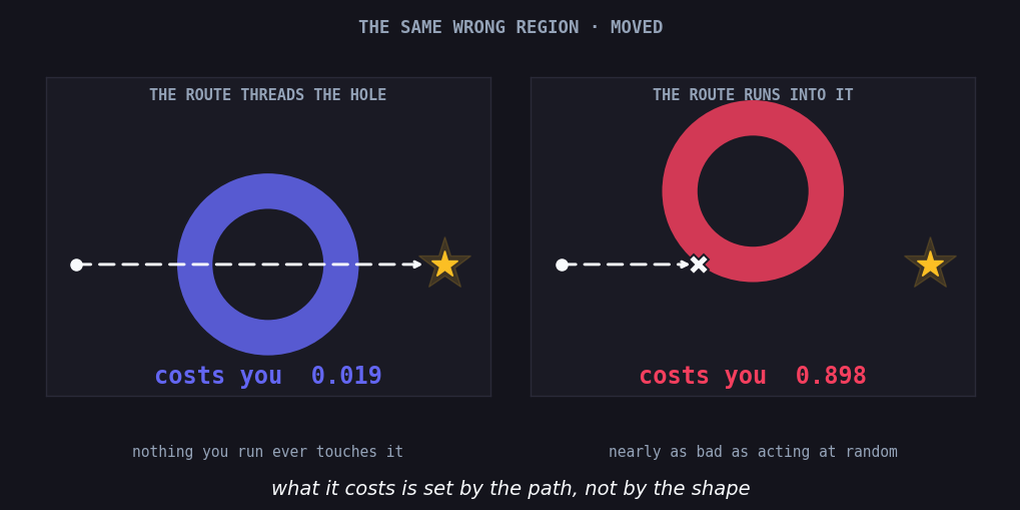
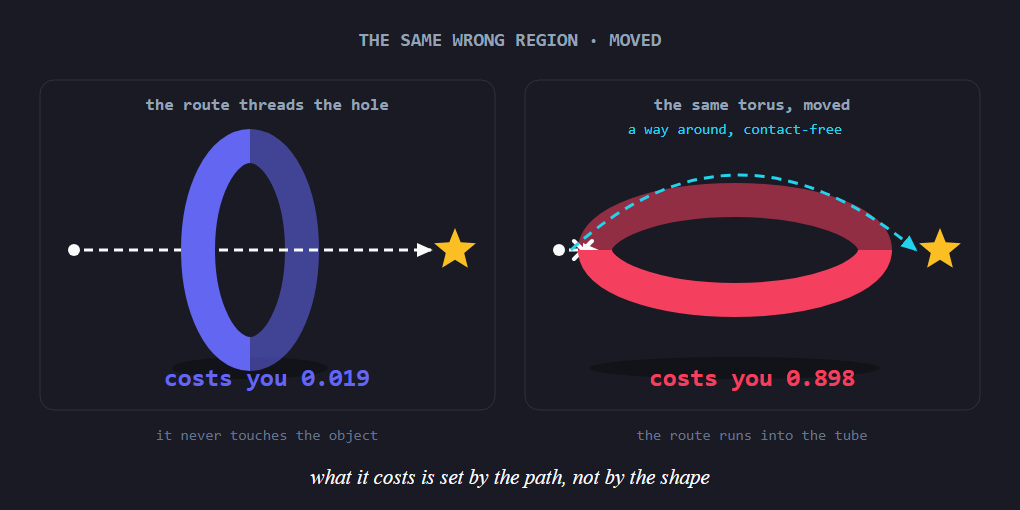
The 3D torus, in the body and as the hero
The go-around section gets the same 3D figure as the sibling article, with
a plain-language caption. And the hero is rebuilt from it: the first one
drew the doughnut flat, which undersells the result — the object is a
solid torus in three dimensions and the entire point of that experiment is
that you can go around it. It is now drawn standing with the route through
its hole against the same object lying flat with the route running into
the tube.

That also collapses two pipelines into one: the hero is now emitted by the
same SVG generator as the in-body figures and rasterised with headless
Chrome (command recorded in image-prompts.md), so the geometry has a single
source of truth. The old matplotlib hero source is deleted rather than left
to rot.

Claude-Session: https://claude.ai/code/session_01X6tRobDH5GAj5t5XTuUfb8

diff --git a/docs/marketing/figure-sources/ring_figures.py b/docs/marketing/figure-sources/ring_figures.py
@@ -348,9 +348,12 @@ def preview(outdir: pathlib.Path) -> None:
     outdir.mkdir(parents=True, exist_ok=True)
     for name, build in FIGURES.items():
         body, _ = build()
+        vb = re.search(r'viewBox="0 0 (\d+) (\d+)"', body)
+        w = int(vb.group(1)) if vb else 600
+        pad = 0 if name.startswith("hero") else 10
         html = (f'<!doctype html><meta charset="utf-8">'
                 f'<body style="margin:0;background:{PANEL}">'
-                f'<div style="width:620px;padding:10px">{body}</div></body>')
+                f'<div style="width:{w}px;padding:{pad}px">{body}</div></body>')
         (outdir / f"{name}.html").write_text(html, encoding="utf-8")
         (outdir / f"{name}.svg").write_text(
             body.replace("<svg ", f'<svg style="background:{PANEL}" ', 1),
@@ -374,6 +377,154 @@ def main() -> int:
         p = pathlib.Path(f)
         print(f"{f}: {write_into(p)} figure(s) patched")
     return 0
+
+
+# --- the 3D control (TubeField3D) ------------------------------------------
+def _ellipse_path(cx, cy, rx, ry) -> str:
+    return (f"M{cx - rx:.1f},{cy:.1f} A{rx:.1f},{ry:.1f} 0 1,0 {cx + rx:.1f},{cy:.1f} "
+            f"A{rx:.1f},{ry:.1f} 0 1,0 {cx - rx:.1f},{cy:.1f} Z")
+
+
+def hoop(cx, cy, rx, ry, tube, colour, uid, *, split="x"):
+    """A torus drawn as a stroked ellipse, split into far/near halves so a path
+    can be made to pass visibly through it. `split="x"` stands the ring up
+    (hole axis horizontal, i.e. a hoop); `split="y"` lays it flat.
+
+    Returns (defs, far, near) — draw far, then whatever passes through, then near.
+    """
+    pad = 40
+    if split == "x":
+        far_rect = (cx, cy - ry - pad, rx + pad, 2 * (ry + pad))
+        near_rect = (cx - rx - pad, cy - ry - pad, rx + pad, 2 * (ry + pad))
+    else:
+        far_rect = (cx - rx - pad, cy - ry - pad, 2 * (rx + pad), ry + pad)
+        near_rect = (cx - rx - pad, cy, 2 * (rx + pad), ry + pad)
+    defs = (f'<defs>'
+            f'<clipPath id="{uid}-far"><rect x="{far_rect[0]:.1f}" y="{far_rect[1]:.1f}" '
+            f'width="{far_rect[2]:.1f}" height="{far_rect[3]:.1f}"/></clipPath>'
+            f'<clipPath id="{uid}-near"><rect x="{near_rect[0]:.1f}" y="{near_rect[1]:.1f}" '
+            f'width="{near_rect[2]:.1f}" height="{near_rect[3]:.1f}"/></clipPath>'
+            f'</defs>')
+    path = _ellipse_path(cx, cy, rx, ry)
+    far = (f'<path d="{path}" fill="none" stroke="{colour}" stroke-width="{tube}" '
+           f'stroke-opacity="0.55" clip-path="url(#{uid}-far)"/>')
+    near = (f'<path d="{path}" fill="none" stroke="{colour}" stroke-width="{tube}" '
+            f'clip-path="url(#{uid}-near)"/>')
+    return defs, far, near
+
+
+def _torus_panel(out, x0, cx, cy, *, standing, colour, uid, cost, tag, note,
+                 around=False):
+    out.append(frame(x0, 22, 285, 176))
+    out.append(text(x0 + 142, 15, tag, size=11.5, weight="bold", colour=MUTED))
+    if standing:
+        defs, far, near = hoop(cx, cy, 32, 62, 20, colour, uid, split="x")
+    else:
+        defs, far, near = hoop(cx, cy, 84, 30, 21, colour, uid, split="y")
+    # a faint contact shadow, to say "this is a solid object in space"
+    out.append(f'<ellipse cx="{cx:.1f}" cy="{cy + 68:.1f}" rx="{86 if not standing else 46}" '
+               f'ry="7" fill="#000" fill-opacity="0.30"/>')
+    out.append(defs)
+    out.append(far)
+    sx, sy = x0 + 24, cy
+    gx, gy = x0 + 258, cy
+    out.append(dot(sx, sy, r=3.4))
+    if standing:
+        out.append(arrow(sx + 6, sy, gx - 14, gy, mid=uid + "-mk"))
+    else:
+        out.append(arrow(sx + 6, sy, cx - 82, cy, mid=uid + "-mk"))
+        out.append(cross(cx - 92, cy, size=5.0))
+        if around:
+            out.append(f'<path d="M{sx + 8:.1f},{sy:.1f} Q{cx:.1f},{cy - 88:.1f} '
+                       f'{gx - 14:.1f},{gy:.1f}" fill="none" stroke="{CYAN}" '
+                       f'stroke-width="2" stroke-dasharray="6 4" '
+                       f'marker-end="url(#{uid}-mk2)"/>')
+            out.append(text(cx, cy - 68, "a way around, contact-free", size=9.5,
+                            colour=CYAN))
+    out.append(near)
+    out.append(star(gx, gy, 1, r=13, halo=False))
+    out.append(text(x0 + 142, 186, f"costs you  {cost}", size=15, colour=colour,
+                    weight="bold"))
+    out.append(text(x0 + 142, 214, note, size=9.5, colour=DIM))
+
+
+def fig_torus_3d() -> tuple[str, str]:
+    label = ("The same solid torus in three dimensions: with the route through its "
+             "hole it costs 0.019, and moved so the route runs into the tube it "
+             "costs 0.898 — while a contact-free path around it still exists")
+    out = [marker_def("t3-mk"), marker_def("t3b-mk"), marker_def("t3b-mk2", CYAN)]
+    _torus_panel(out, 10, 152, 104, standing=True, colour=SAFE, uid="t3",
+                 cost="0.019", tag="the route threads the hole",
+                 note="it never touches the object")
+    _torus_panel(out, 305, 447, 104, standing=False, colour=DANGER, uid="t3b",
+                 cost="0.898", tag="the same torus, moved",
+                 note="the route runs into the tube", around=True)
+    out.append(text(300, 238,
+                    "nothing here is sealed off  ·  same object, same contact rarity 0.0033",
+                    size=11, colour=INK))
+    return svg("\n".join(out), w=600, h=250, label=label), label
+
+
+FIGURES["torus-3d"] = fig_torus_3d
+
+# --- the explainer's hero (rendered to PNG with headless Chrome) ------------
+def fig_hero_bug() -> tuple[str, str]:
+    """1020x510 hero for "The Bug Nobody Can Reach".
+
+    Rasterise it after regenerating:
+
+        python ring_figures.py --preview out/
+        chrome --headless=new --hide-scrollbars           --screenshot=public/blog/the-bug-nobody-can-reach.png           --window-size=1020,510 file://.../out/hero-bug.html
+    """
+    label = ("The same solid torus in three dimensions, moved: the route threads its "
+             "hole and costs 0.019, or runs into the tube and costs 0.898")
+    out = [marker_def("h-mk"), marker_def("hb-mk"), marker_def("hb-mk2", CYAN)]
+    out.append(text(510, 46, "THE SAME WRONG REGION · MOVED", size=19,
+                    colour=MUTED, weight="bold"))
+    cfg = [
+        (40, 250, True, SAFE, "h", "0.019", "the route threads the hole",
+         "it never touches the object"),
+        (525, 735, False, DANGER, "hb", "0.898", "the same torus, moved",
+         "the route runs into the tube"),
+    ]
+    for x0, cx, standing, colour, uid, cost, tag, note in cfg:
+        cy = 250
+        out.append(f'<rect x="{x0}" y="80" width="455" height="330" rx="14" '
+                   f'fill="none" stroke="{EDGE}"/>')
+        out.append(text(x0 + 227, 110, tag, size=17, colour=MUTED, weight="bold"))
+        if standing:
+            defs, far, near = hoop(cx, cy, 52, 104, 34, colour, uid, split="x")
+        else:
+            defs, far, near = hoop(cx, cy, 140, 50, 34, colour, uid, split="y")
+        out.append(f'<ellipse cx="{cx}" cy="{cy + 118}" rx="{78 if standing else 145}" '
+                   f'ry="11" fill="#000" fill-opacity="0.30"/>')
+        out.append(defs)
+        out.append(far)
+        sx, gx = x0 + 34, x0 + 415
+        out.append(dot(sx, cy, r=6))
+        if standing:
+            out.append(arrow(sx + 10, cy, gx - 24, cy, mid=uid + "-mk", w=3,
+                             dash="9 6"))
+        else:
+            out.append(arrow(sx + 10, cy, cx - 138, cy, mid=uid + "-mk", w=3,
+                             dash="9 6"))
+            out.append(cross(cx - 152, cy, size=9, w=4))
+            out.append(f'<path d="M{sx + 12},{cy} Q{cx},{cy - 150} {gx - 24},{cy}" '
+                       f'fill="none" stroke="{CYAN}" stroke-width="3" '
+                       f'stroke-dasharray="10 7" marker-end="url(#hb-mk2)"/>')
+            out.append(text(cx, cy - 116, "a way around, contact-free", size=15,
+                            colour=CYAN))
+        out.append(near)
+        out.append(star(gx, cy, 1, r=22, halo=False))
+        out.append(text(x0 + 227, 386, f"costs you  {cost}", size=25, colour=colour,
+                        weight="bold"))
+        out.append(text(x0 + 227, 440, note, size=15, colour=DIM))
+    out.append(text(510, 484, "what it costs is set by the path, not by the shape",
+                    size=21, colour=INK, mono=False, italic=True))
+    return svg("\n".join(out), w=1020, h=510, label=label), label
+
+
+FIGURES["hero-bug"] = fig_hero_bug
 
 
 if __name__ == "__main__":

diff --git a/src/content/blog/en/the-bug-nobody-can-reach.md b/src/content/blog/en/the-bug-nobody-can-reach.md
@@ -127,6 +127,44 @@ That was the first objection I got, and it is the right one. In two dimensions a
 
 So the paper runs the case where going around is genuinely possible: a doughnut-shaped region floating in three-dimensional space, between the robot and its target. Nothing is sealed off — there is an explicit route that goes around it without touching it at all.
 
+<figure class="cwm-fig">
+<!-- fig:torus-3d -->
+<svg viewBox="0 0 600 250" role="img" aria-label="The same solid torus in three dimensions: with the route through its hole it costs 0.019, and moved so the route runs into the tube it costs 0.898 — while a contact-free path around it still exists">
+<defs><marker id="t3-mk" viewBox="0 0 10 10" refX="8" refY="5" markerWidth="6" markerHeight="6" orient="auto-start-reverse"><path d="M0,1 L9,5 L0,9 z" fill="#f8fafc"/></marker></defs>
+<defs><marker id="t3b-mk" viewBox="0 0 10 10" refX="8" refY="5" markerWidth="6" markerHeight="6" orient="auto-start-reverse"><path d="M0,1 L9,5 L0,9 z" fill="#f8fafc"/></marker></defs>
+<defs><marker id="t3b-mk2" viewBox="0 0 10 10" refX="8" refY="5" markerWidth="6" markerHeight="6" orient="auto-start-reverse"><path d="M0,1 L9,5 L0,9 z" fill="#22d3ee"/></marker></defs>
+<rect x="10" y="22" width="285" height="176" rx="8" fill="none" stroke="rgba(255,255,255,0.10)"/>
+<text x="152.0" y="15.0" font-size="11.5" fill="#94a3b8" text-anchor="middle" font-family="ui-monospace,'JetBrains Mono',monospace" font-weight="bold">the route threads the hole</text>
+<ellipse cx="152.0" cy="172.0" rx="46" ry="7" fill="#000" fill-opacity="0.30"/>
+<defs><clipPath id="t3-far"><rect x="152.0" y="2.0" width="72.0" height="204.0"/></clipPath><clipPath id="t3-near"><rect x="80.0" y="2.0" width="72.0" height="204.0"/></clipPath></defs>
+<path d="M120.0,104.0 A32.0,62.0 0 1,0 184.0,104.0 A32.0,62.0 0 1,0 120.0,104.0 Z" fill="none" stroke="#6366f1" stroke-width="20" stroke-opacity="0.55" clip-path="url(#t3-far)"/>
+<circle cx="34.0" cy="104.0" r="3.4" fill="#f8fafc"/>
+<line x1="40.0" y1="104.0" x2="254.0" y2="104.0" stroke="#f8fafc" stroke-width="2.0" stroke-dasharray="5 3" marker-end="url(#t3-mk)"/>
+<path d="M120.0,104.0 A32.0,62.0 0 1,0 184.0,104.0 A32.0,62.0 0 1,0 120.0,104.0 Z" fill="none" stroke="#6366f1" stroke-width="20" clip-path="url(#t3-near)"/>
+<polygon points="268.0,91.0 264.6,99.4 255.6,100.0 262.6,105.8 260.4,114.5 268.0,109.7 275.6,114.5 273.4,105.8 280.4,100.0 271.4,99.4" fill="#fbbf24"/>
+<text x="152.0" y="186.0" font-size="15" fill="#6366f1" text-anchor="middle" font-family="ui-monospace,'JetBrains Mono',monospace" font-weight="bold">costs you  0.019</text>
+<text x="152.0" y="214.0" font-size="9.5" fill="#64748b" text-anchor="middle" font-family="ui-monospace,'JetBrains Mono',monospace">it never touches the object</text>
+<rect x="305" y="22" width="285" height="176" rx="8" fill="none" stroke="rgba(255,255,255,0.10)"/>
+<text x="447.0" y="15.0" font-size="11.5" fill="#94a3b8" text-anchor="middle" font-family="ui-monospace,'JetBrains Mono',monospace" font-weight="bold">the same torus, moved</text>
+<ellipse cx="447.0" cy="172.0" rx="86" ry="7" fill="#000" fill-opacity="0.30"/>
+<defs><clipPath id="t3b-far"><rect x="323.0" y="34.0" width="248.0" height="70.0"/></clipPath><clipPath id="t3b-near"><rect x="323.0" y="104.0" width="248.0" height="70.0"/></clipPath></defs>
+<path d="M363.0,104.0 A84.0,30.0 0 1,0 531.0,104.0 A84.0,30.0 0 1,0 363.0,104.0 Z" fill="none" stroke="#f43f5e" stroke-width="21" stroke-opacity="0.55" clip-path="url(#t3b-far)"/>
+<circle cx="329.0" cy="104.0" r="3.4" fill="#f8fafc"/>
+<line x1="335.0" y1="104.0" x2="365.0" y2="104.0" stroke="#f8fafc" stroke-width="2.0" stroke-dasharray="5 3" marker-end="url(#t3b-mk)"/>
+<path d="M350.0,99.0 L360.0,109.0 M360.0,99.0 L350.0,109.0" stroke="#f8fafc" stroke-width="2.4" stroke-linecap="round"/>
+<path d="M337.0,104.0 Q447.0,16.0 549.0,104.0" fill="none" stroke="#22d3ee" stroke-width="2" stroke-dasharray="6 4" marker-end="url(#t3b-mk2)"/>
+<text x="447.0" y="36.0" font-size="9.5" fill="#22d3ee" text-anchor="middle" font-family="ui-monospace,'JetBrains Mono',monospace">a way around, contact-free</text>
+<path d="M363.0,104.0 A84.0,30.0 0 1,0 531.0,104.0 A84.0,30.0 0 1,0 363.0,104.0 Z" fill="none" stroke="#f43f5e" stroke-width="21" clip-path="url(#t3b-near)"/>
+<polygon points="563.0,91.0 559.6,99.4 550.6,100.0 557.6,105.8 555.4,114.5 563.0,109.7 570.6,114.5 568.4,105.8 575.4,100.0 566.4,99.4" fill="#fbbf24"/>
+<text x="447.0" y="186.0" font-size="15" fill="#f43f5e" text-anchor="middle" font-family="ui-monospace,'JetBrains Mono',monospace" font-weight="bold">costs you  0.898</text>
+<text x="447.0" y="214.0" font-size="9.5" fill="#64748b" text-anchor="middle" font-family="ui-monospace,'JetBrains Mono',monospace">the route runs into the tube</text>
+<text x="300.0" y="238.0" font-size="11" fill="#f8fafc" text-anchor="middle" font-family="ui-monospace,'JetBrains Mono',monospace">nothing here is sealed off  ·  same object, same contact rarity 0.0033</text>
+</svg>
+<!-- /fig:torus-3d -->
+<figcaption>The doughnut in three dimensions. On the left the route passes through its hole and the wrong model costs almost nothing; on the right the same object has been moved so the route runs into it, and it costs nearly as much as acting at random. The dashed path arcing over the top is the one that matters for the second half of the story: it reaches the goal without touching anything, which is what makes the error catchable in principle again.</figcaption>
+</figure>
+
+
 The result splits in two, and this is the version I would carry into a real system.
 
 **The danger survives.** Put the doughnut so the planned route runs into its solid part and the cost is **0.898**. Move it so the route threads the hole instead and the cost is **0.019** — same object, same rarity of contact, same trivial shape. Being on the path is what costs you, whether or not the thing encloses anything.

diff --git a/src/content/blog/es/the-bug-nobody-can-reach.md b/src/content/blog/es/the-bug-nobody-can-reach.md
@@ -111,6 +111,44 @@ Esa fue la primera objeción que me hicieron, y es la correcta. En dos dimension
 
 Así que el paper corre el caso en el que rodear **sí** es posible: una región con forma de donut flotando en el espacio tridimensional, entre el robot y su objetivo. Nada está sellado — existe una ruta explícita que la rodea sin tocarla en absoluto.
 
+<figure class="cwm-fig">
+<!-- fig:torus-3d -->
+<svg viewBox="0 0 600 250" role="img" aria-label="The same solid torus in three dimensions: with the route through its hole it costs 0.019, and moved so the route runs into the tube it costs 0.898 — while a contact-free path around it still exists">
+<defs><marker id="t3-mk" viewBox="0 0 10 10" refX="8" refY="5" markerWidth="6" markerHeight="6" orient="auto-start-reverse"><path d="M0,1 L9,5 L0,9 z" fill="#f8fafc"/></marker></defs>
+<defs><marker id="t3b-mk" viewBox="0 0 10 10" refX="8" refY="5" markerWidth="6" markerHeight="6" orient="auto-start-reverse"><path d="M0,1 L9,5 L0,9 z" fill="#f8fafc"/></marker></defs>
+<defs><marker id="t3b-mk2" viewBox="0 0 10 10" refX="8" refY="5" markerWidth="6" markerHeight="6" orient="auto-start-reverse"><path d="M0,1 L9,5 L0,9 z" fill="#22d3ee"/></marker></defs>
+<rect x="10" y="22" width="285" height="176" rx="8" fill="none" stroke="rgba(255,255,255,0.10)"/>
+<text x="152.0" y="15.0" font-size="11.5" fill="#94a3b8" text-anchor="middle" font-family="ui-monospace,'JetBrains Mono',monospace" font-weight="bold">the route threads the hole</text>
+<ellipse cx="152.0" cy="172.0" rx="46" ry="7" fill="#000" fill-opacity="0.30"/>
+<defs><clipPath id="t3-far"><rect x="152.0" y="2.0" width="72.0" height="204.0"/></clipPath><clipPath id="t3-near"><rect x="80.0" y="2.0" width="72.0" height="204.0"/></clipPath></defs>
+<path d="M120.0,104.0 A32.0,62.0 0 1,0 184.0,104.0 A32.0,62.0 0 1,0 120.0,104.0 Z" fill="none" stroke="#6366f1" stroke-width="20" stroke-opacity="0.55" clip-path="url(#t3-far)"/>
+<circle cx="34.0" cy="104.0" r="3.4" fill="#f8fafc"/>
+<line x1="40.0" y1="104.0" x2="254.0" y2="104.0" stroke="#f8fafc" stroke-width="2.0" stroke-dasharray="5 3" marker-end="url(#t3-mk)"/>
+<path d="M120.0,104.0 A32.0,62.0 0 1,0 184.0,104.0 A32.0,62.0 0 1,0 120.0,104.0 Z" fill="none" stroke="#6366f1" stroke-width="20" clip-path="url(#t3-near)"/>
+<polygon points="268.0,91.0 264.6,99.4 255.6,100.0 262.6,105.8 260.4,114.5 268.0,109.7 275.6,114.5 273.4,105.8 280.4,100.0 271.4,99.4" fill="#fbbf24"/>
+<text x="152.0" y="186.0" font-size="15" fill="#6366f1" text-anchor="middle" font-family="ui-monospace,'JetBrains Mono',monospace" font-weight="bold">costs you  0.019</text>
+<text x="152.0" y="214.0" font-size="9.5" fill="#64748b" text-anchor="middle" font-family="ui-monospace,'JetBrains Mono',monospace">it never touches the object</text>
+<rect x="305" y="22" width="285" height="176" rx="8" fill="none" stroke="rgba(255,255,255,0.10)"/>
+<text x="447.0" y="15.0" font-size="11.5" fill="#94a3b8" text-anchor="middle" font-family="ui-monospace,'JetBrains Mono',monospace" font-weight="bold">the same torus, moved</text>
+<ellipse cx="447.0" cy="172.0" rx="86" ry="7" fill="#000" fill-opacity="0.30"/>
+<defs><clipPath id="t3b-far"><rect x="323.0" y="34.0" width="248.0" height="70.0"/></clipPath><clipPath id="t3b-near"><rect x="323.0" y="104.0" width="248.0" height="70.0"/></clipPath></defs>
+<path d="M363.0,104.0 A84.0,30.0 0 1,0 531.0,104.0 A84.0,30.0 0 1,0 363.0,104.0 Z" fill="none" stroke="#f43f5e" stroke-width="21" stroke-opacity="0.55" clip-path="url(#t3b-far)"/>
+<circle cx="329.0" cy="104.0" r="3.4" fill="#f8fafc"/>
+<line x1="335.0" y1="104.0" x2="365.0" y2="104.0" stroke="#f8fafc" stroke-width="2.0" stroke-dasharray="5 3" marker-end="url(#t3b-mk)"/>
+<path d="M350.0,99.0 L360.0,109.0 M360.0,99.0 L350.0,109.0" stroke="#f8fafc" stroke-width="2.4" stroke-linecap="round"/>
+<path d="M337.0,104.0 Q447.0,16.0 549.0,104.0" fill="none" stroke="#22d3ee" stroke-width="2" stroke-dasharray="6 4" marker-end="url(#t3b-mk2)"/>
+<text x="447.0" y="36.0" font-size="9.5" fill="#22d3ee" text-anchor="middle" font-family="ui-monospace,'JetBrains Mono',monospace">a way around, contact-free</text>
+<path d="M363.0,104.0 A84.0,30.0 0 1,0 531.0,104.0 A84.0,30.0 0 1,0 363.0,104.0 Z" fill="none" stroke="#f43f5e" stroke-width="21" clip-path="url(#t3b-near)"/>
+<polygon points="563.0,91.0 559.6,99.4 550.6,100.0 557.6,105.8 555.4,114.5 563.0,109.7 570.6,114.5 568.4,105.8 575.4,100.0 566.4,99.4" fill="#fbbf24"/>
+<text x="447.0" y="186.0" font-size="15" fill="#f43f5e" text-anchor="middle" font-family="ui-monospace,'JetBrains Mono',monospace" font-weight="bold">costs you  0.898</text>
+<text x="447.0" y="214.0" font-size="9.5" fill="#64748b" text-anchor="middle" font-family="ui-monospace,'JetBrains Mono',monospace">the route runs into the tube</text>
+<text x="300.0" y="238.0" font-size="11" fill="#f8fafc" text-anchor="middle" font-family="ui-monospace,'JetBrains Mono',monospace">nothing here is sealed off  ·  same object, same contact rarity 0.0033</text>
+</svg>
+<!-- /fig:torus-3d -->
+<figcaption>El donut en tres dimensiones. A la izquierda la ruta pasa por su agujero y el modelo equivocado no cuesta casi nada; a la derecha el mismo objeto se ha movido para que la ruta se meta en él, y cuesta casi tanto como actuar al azar. El camino de puntos que pasa por encima es el que importa para la segunda mitad de la historia: llega al objetivo sin tocar nada, y eso es lo que vuelve a hacer el error detectable en principio.</figcaption>
+</figure>
+
+
 El resultado se parte en dos, y esta es la versión que yo me llevaría a un sistema real.
 
 **El peligro sobrevive.** Pon el donut de forma que la ruta planificada se meta en su parte sólida y el coste es **0.898**. Muévelo para que la ruta enhebre el agujero y el coste es **0.019** — mismo objeto, misma rareza de contacto, misma forma trivial. Lo que te cuesta es estar en el camino, encierre la cosa algo o no.

diff --git a/docs/marketing/image-prompts.md b/docs/marketing/image-prompts.md
@@ -8,18 +8,24 @@ Exact prompts used to generate blog hero images (via Codex `image_gen`), for rep
 
 - **Article:** `src/content/blog/{en,es}/the-bug-nobody-can-reach.md`
 - **Image:** `public/blog/the-bug-nobody-can-reach.png`
-- **Generated:** 2026-08-28 — deterministic diagram, not `image_gen`. Source at
-  `docs/marketing/hero-sources/the-bug-nobody-can-reach.py` (matplotlib,
-  1020x510 exact, site palette).
+- **Generated:** 2026-08-29 — deterministic, not `image_gen`. Emitted as SVG by
+  `docs/marketing/figure-sources/ring_figures.py` (figure `hero-bug`) and
+  rasterised with headless Chrome:
 
-Same reasoning as `being-wrong-can-be-free`: the article's whole point is one
-contrast between two pictures that differ only in position, and drawing them to
-scale carries "these are the same object" better than an illustration can. This
-hero uses the plainest version of the result — the doughnut-shaped wrong region
-in 3D, once with the route threading its hole (costs 0.019) and once moved so
-the route runs into it (costs 0.898), both from
-`results/tubefield_mechanism.json`. The sibling article's hero uses the ring
-pair instead, so the two posts do not share an image.
+```bash
+python docs/marketing/figure-sources/ring_figures.py --preview /tmp/figs
+chrome --headless=new --hide-scrollbars   --screenshot=public/blog/the-bug-nobody-can-reach.png   --window-size=1020,510 file:///tmp/figs/hero-bug.html
+```
+
+The first version of this hero drew the doughnut flat, which undersold the
+result: the object in that experiment is a solid torus in three dimensions and
+the whole point is that you can go *around* it. The hero now draws it in 3D —
+standing, with the route threading its hole (0.019), against the same object
+lying flat with the route running into the tube (0.898) and a contact-free path
+arcing over the top. Numbers from `results/tubefield_mechanism.json`. Sharing
+the generator with the in-body figures keeps one source of truth for the
+geometry; the earlier matplotlib hero source was deleted rather than left to
+rot.
 
 ---
 
